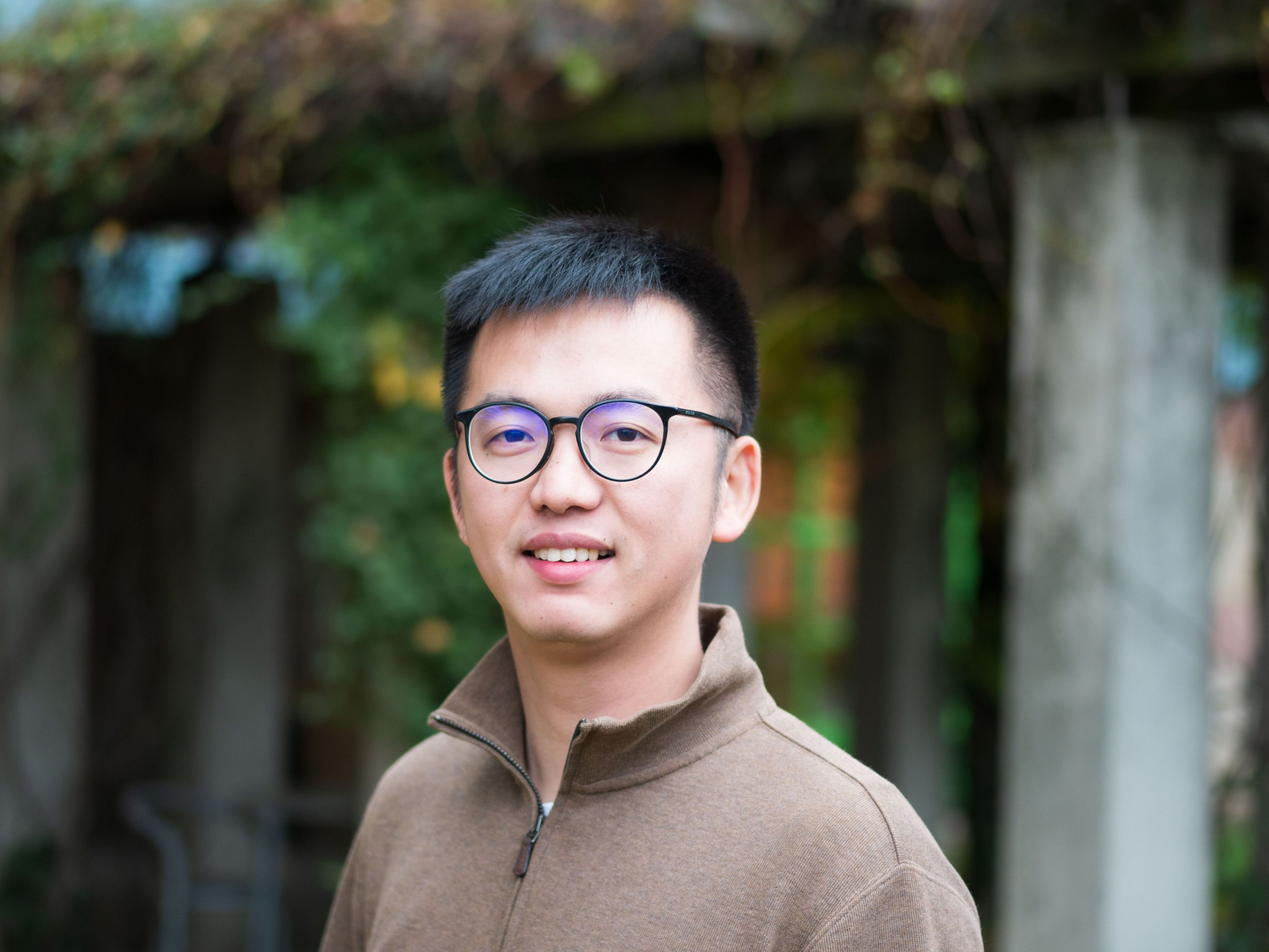
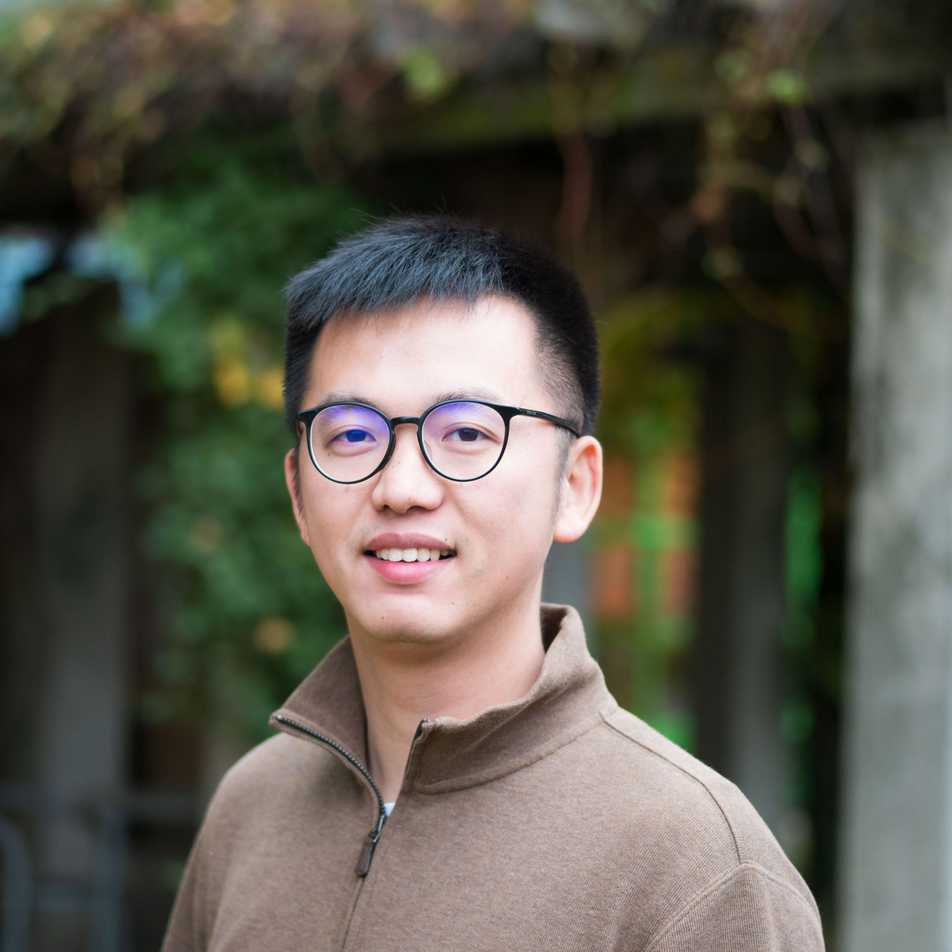
Refine site typography and profile photo presentation.
Tighten the type scale, use a rounded-square profile crop, shorten the bio line, and remove the email underline for a cleaner header.

diff --git a/styles.css b/styles.css
@@ -5,13 +5,22 @@
 }
 
 :root {
-  --text: #111111;
-  --text-muted: #666666;
-  --link: #0066cc;
-  --link-hover: #004499;
-  --border: #eaeaea;
+  --text: #1a1a1a;
+  --text-secondary: #333333;
+  --text-muted: #6b6b6b;
+  --link: #0055aa;
+  --link-hover: #003d7a;
+  --border: #e8e8e8;
   --bg-hover: #f5f5f7;
-  --max-width: 42rem;
+  --max-width: 40rem;
+
+  /* Type scale */
+  --fs-xs: 0.75rem;
+  --fs-sm: 0.875rem;
+  --fs-base: 0.9375rem;
+  --fs-md: 1rem;
+  --fs-lg: 1.0625rem;
+  --fs-xl: 1.625rem;
 }
 
 html {
@@ -21,9 +30,10 @@ html {
 
 body {
   margin: 0;
-  padding: 4rem 2rem 5rem;
+  padding: 3.5rem 1.75rem 4.5rem;
   font-family: 'Inter', -apple-system, BlinkMacSystemFont, "Segoe UI", Roboto, Helvetica, Arial, sans-serif;
-  line-height: 1.6;
+  font-size: var(--fs-base);
+  line-height: 1.65;
   color: var(--text);
   background: #ffffff;
   -webkit-font-smoothing: antialiased;
@@ -41,9 +51,9 @@ main {
   flex-direction: row;
   align-items: flex-start;
   justify-content: space-between;
-  gap: 2.5rem;
-  margin-bottom: 3rem;
-  padding-bottom: 2.5rem;
+  gap: 2rem;
+  margin-bottom: 2.75rem;
+  padding-bottom: 2.25rem;
   border-bottom: 1px solid var(--border);
 }
 
@@ -52,69 +62,69 @@ main {
 }
 
 h1 {
-  margin: 0 0 0.5rem;
-  font-size: 2.2rem;
-  font-weight: 700;
-  letter-spacing: -0.03em;
+  margin: 0 0 0.35rem;
+  font-size: var(--fs-xl);
+  font-weight: 600;
+  line-height: 1.25;
+  letter-spacing: -0.02em;
   color: var(--text);
 }
 
 h1 span {
-  font-weight: 300;
+  font-size: 0.85em;
+  font-weight: 400;
   color: var(--text-muted);
-  margin-left: 0.5rem;
+  margin-left: 0.4rem;
 }
 
 .role {
-  margin: 0 0 1.5rem;
-  font-size: 1.05rem;
+  margin: 0 0 1.125rem;
+  font-size: var(--fs-base);
   font-weight: 400;
   color: var(--text-muted);
-  line-height: 1.4;
+  line-height: 1.45;
 }
 
 /* Social & Action Links */
 .email-line {
-  margin: 0 0 1.25rem;
-  font-size: 0.95rem;
+  margin: 0 0 1rem;
+  font-size: var(--fs-sm);
   color: var(--text-muted);
 }
 
 .email-line a {
   color: var(--text);
   font-weight: 500;
-  border-bottom: 1px solid var(--border);
 }
 
 .email-line a:hover {
   color: var(--link);
-  border-bottom-color: var(--link);
   text-decoration: none;
 }
 
 .social-links {
   display: flex;
   flex-wrap: wrap;
-  gap: 0.75rem;
+  gap: 0.5rem;
 }
 
 .btn {
   display: inline-flex;
   align-items: center;
-  padding: 0.4rem 0.85rem;
-  font-size: 0.85rem;
+  padding: 0.35rem 0.75rem;
+  font-size: var(--fs-xs);
   font-weight: 500;
   color: var(--text);
   background: #ffffff;
-  border: 1px solid #d1d1d6;
-  border-radius: 6px;
+  border: 1px solid #d4d4d8;
+  border-radius: 5px;
   text-decoration: none;
-  transition: all 0.15s ease;
+  transition: background 0.15s ease, border-color 0.15s ease;
 }
 
 .btn:hover {
   background: var(--bg-hover);
-  border-color: #8e8e93;
+  border-color: #a1a1aa;
   color: var(--text);
   text-decoration: none;
 }
@@ -125,40 +135,41 @@ h1 span {
 }
 
 .profile-photo {
-  width: 140px;
-  height: 140px;
+  width: 128px;
+  height: 128px;
   object-fit: cover;
-  border-radius: 50%;
+  object-position: center center;
+  border-radius: 12px;
   border: 1px solid var(--border);
   background-color: var(--bg-hover);
 }
 
 /* Section Styles */
 section {
-  margin-bottom: 3.5rem;
+  margin-bottom: 3rem;
 }
 
 h2 {
-  margin: 0 0 1.5rem;
-  font-size: 0.75rem;
+  margin: 0 0 1.25rem;
+  font-size: var(--fs-xs);
   font-weight: 600;
-  letter-spacing: 0.14em;
+  letter-spacing: 0.1em;
   text-transform: uppercase;
   color: var(--text-muted);
   border-bottom: 1px solid var(--border);
-  padding-bottom: 0.5rem;
+  padding-bottom: 0.45rem;
 }
 
 .intro p {
-  margin: 0 0 1.25rem;
-  font-size: 1.05rem;
+  margin: 0 0 1rem;
+  font-size: var(--fs-base);
   line-height: 1.65;
-  color: #222222;
+  color: var(--text-secondary);
 }
 
 /* Paper Styles */
 .paper {
-  margin-bottom: 2.5rem;
+  margin-bottom: 2rem;
 }
 
 .paper:last-child {
@@ -166,29 +177,31 @@ h2 {
 }
 
 h3 {
-  margin: 0 0 0.4rem;
-  font-size: 1.15rem;
-  font-weight: 600;
-  line-height: 1.4;
-  letter-spacing: -0.01em;
+  margin: 0 0 0.35rem;
+  font-size: var(--fs-md);
+  font-weight: 500;
+  line-height: 1.45;
+  letter-spacing: -0.005em;
+  color: var(--text);
 }
 
 .meta {
-  margin: 0 0 0.75rem;
-  font-size: 0.9rem;
+  margin: 0 0 0.625rem;
+  font-size: var(--fs-sm);
   color: var(--text-muted);
+  line-height: 1.5;
 }
 
 .abstract {
-  margin: 0 0 0.75rem;
-  font-size: 0.95rem;
-  color: #333333;
-  line-height: 1.6;
+  margin: 0 0 0.625rem;
+  font-size: var(--fs-base);
+  color: var(--text-secondary);
+  line-height: 1.65;
 }
 
 .links {
   margin: 0;
-  font-size: 0.9rem;
+  font-size: var(--fs-sm);
   font-weight: 500;
 }
 
@@ -201,10 +214,11 @@ h3 {
 
 .wip li {
   position: relative;
-  padding-left: 1.25rem;
-  margin-bottom: 0.85rem;
-  font-size: 0.95rem;
-  color: #222222;
+  padding-left: 1.125rem;
+  margin-bottom: 0.75rem;
+  font-size: var(--fs-base);
+  color: var(--text-secondary);
+  line-height: 1.55;
 }
 
 .wip li::before {
@@ -215,7 +229,8 @@ h3 {
 }
 
 .wip li strong {
-  font-weight: 600;
+  font-weight: 500;
+  color: var(--text);
 }
 
 /* Global Link Styles */
@@ -232,49 +247,45 @@ a:hover {
 
 /* Footer */
 footer {
-  margin-top: 5rem;
-  padding-top: 1.5rem;
+  margin-top: 4rem;
+  padding-top: 1.25rem;
   border-top: 1px solid var(--border);
 }
 
 footer p {
   margin: 0;
-  font-size: 0.8rem;
+  font-size: var(--fs-xs);
   color: var(--text-muted);
 }
 
 /* Responsive Design */
 @media (max-width: 640px) {
   body {
-    padding: 2.5rem 1.25rem 4rem;
+    padding: 2.25rem 1.125rem 3.5rem;
   }
 
   .profile-container {
     flex-direction: column-reverse;
     align-items: center;
     text-align: center;
-    gap: 1.5rem;
-    padding-bottom: 2rem;
+    gap: 1.25rem;
+    padding-bottom: 1.75rem;
   }
 
   .profile-photo {
-    width: 120px;
-    height: 120px;
+    width: 112px;
+    height: 112px;
   }
 
   h1 {
-    font-size: 1.8rem;
+    font-size: 1.5rem;
   }
 
   .role {
-    margin-bottom: 1.25rem;
+    margin-bottom: 1rem;
   }
 
   .social-links {
     justify-content: center;
-  }
-
-  .intro p {
-    font-size: 1rem;
   }
 }

diff --git a/index.html b/index.html
@@ -36,7 +36,7 @@
         and political economy. I enjoy working with unstructured, non-traditional data.
       </p>
       <p>
-        I did my PhD at the University of Bristol and worked briefly at the WZB Berlin Social Science Center as a postdoc.
+        I did my PhD at Bristol and worked briefly at the WZB Berlin Social Science Center.
       </p>
     </section>
 
